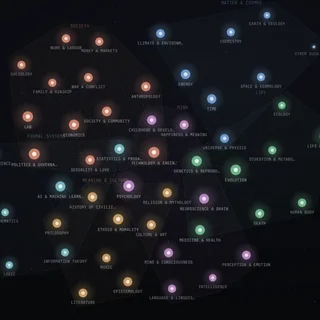
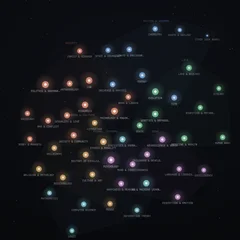
fix(home): the compendium medallion is still, smaller, and themed
It turned on hover and was 160px; it now stays put, sits at 110px and
swaps between a day and a night render of the compendium's own graph
with [saved-theme]. Both renders come from headless chromium on the
patched page (graph view, chrome hidden, 700px window), cropped square.

diff --git a/quartz/styles/custom.scss b/quartz/styles/custom.scss
@@ -1160,17 +1160,21 @@ h1.article-title {
   }
 
   img {
-    width: 160px;
-    height: 160px;
+    width: 110px;
+    height: 110px;
     border-radius: 50%;
     border: 1px solid rgba(201, 164, 92, 0.6);
-    box-shadow: 0 0 0 6px rgba(201, 164, 92, 0.12), 0 10px 30px rgba(20, 18, 14, 0.35);
-    transition: transform 0.4s ease, box-shadow 0.4s ease;
+    box-shadow: 0 0 0 5px rgba(201, 164, 92, 0.12), 0 8px 22px rgba(20, 18, 14, 0.25);
+    transition: box-shadow 0.4s ease;
+  }
+
+  /* one render per theme, the compendium's own day and night graph */
+  .orb-night {
+    display: none;
   }
 
   &:hover img {
-    transform: rotate(-8deg) scale(1.04);
-    box-shadow: 0 0 0 6px rgba(201, 164, 92, 0.3), 0 0 36px rgba(217, 166, 83, 0.45);
+    box-shadow: 0 0 0 5px rgba(201, 164, 92, 0.3), 0 0 28px rgba(217, 166, 83, 0.45);
   }
 
   .orb-title {
@@ -1189,8 +1193,18 @@ h1.article-title {
   }
 }
 
-[saved-theme="dark"] .compendium-orb .orb-sub {
-  color: #a49c86;
+[saved-theme="dark"] .compendium-orb {
+  .orb-sub {
+    color: #a49c86;
+  }
+
+  .orb-day {
+    display: none;
+  }
+
+  .orb-night {
+    display: block;
+  }
 }
 
 @media (max-width: 640px) {

diff --git a/content/index.md b/content/index.md
@@ -40,7 +40,8 @@ publish: true
     <div class="door-row" data-vb-doors></div>
   </section>
   <a class="compendium-orb" href="/knowledge-compendium" data-router-ignore>
-    <img src="/static/compendium-orb.webp" alt="" width="160" height="160" loading="lazy" />
+    <img class="orb-day" src="/static/compendium-orb-day.webp" alt="" width="110" height="110" loading="lazy" />
+    <img class="orb-night" src="/static/compendium-orb.webp" alt="" width="110" height="110" loading="lazy" />
     <span class="orb-title">The Compendium</span>
     <span class="orb-sub">fifty plates of human knowledge, drawn as one star map</span>
   </a>
